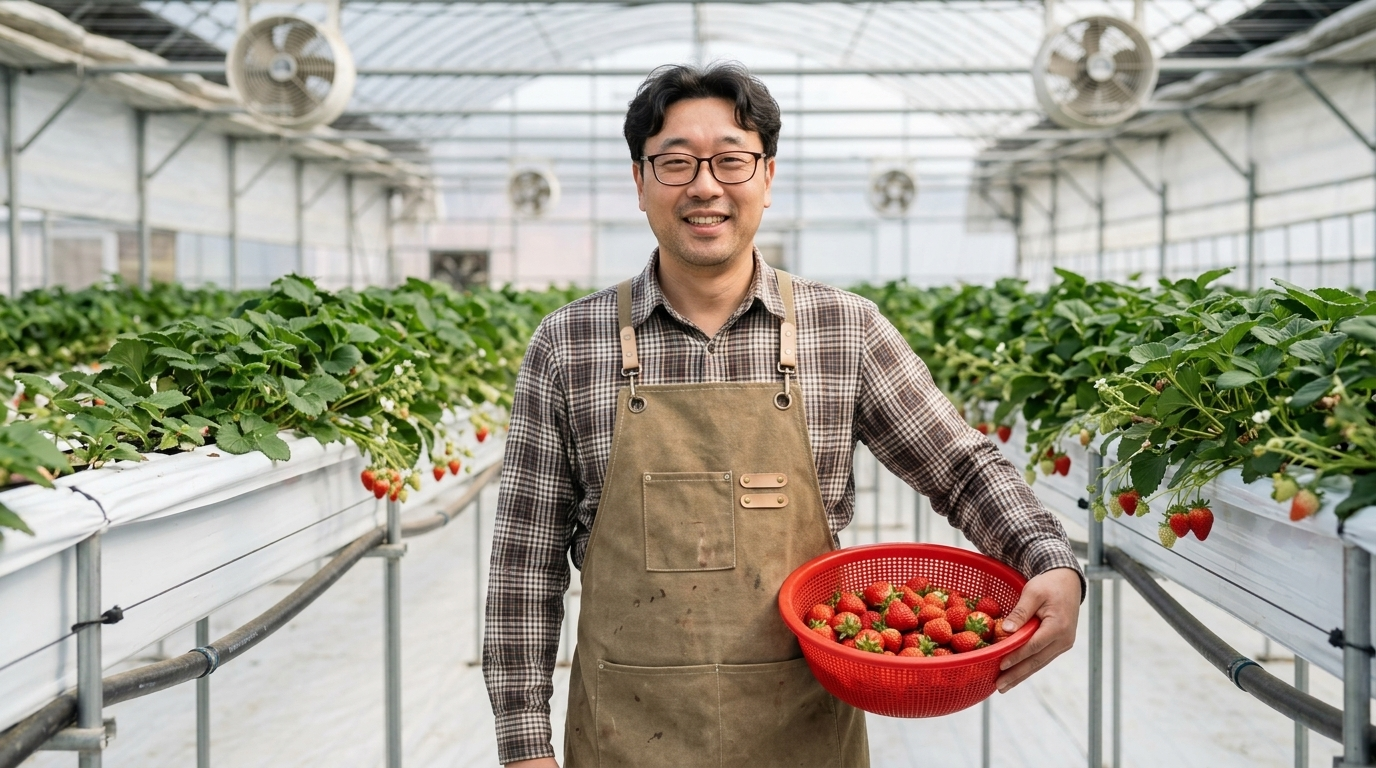
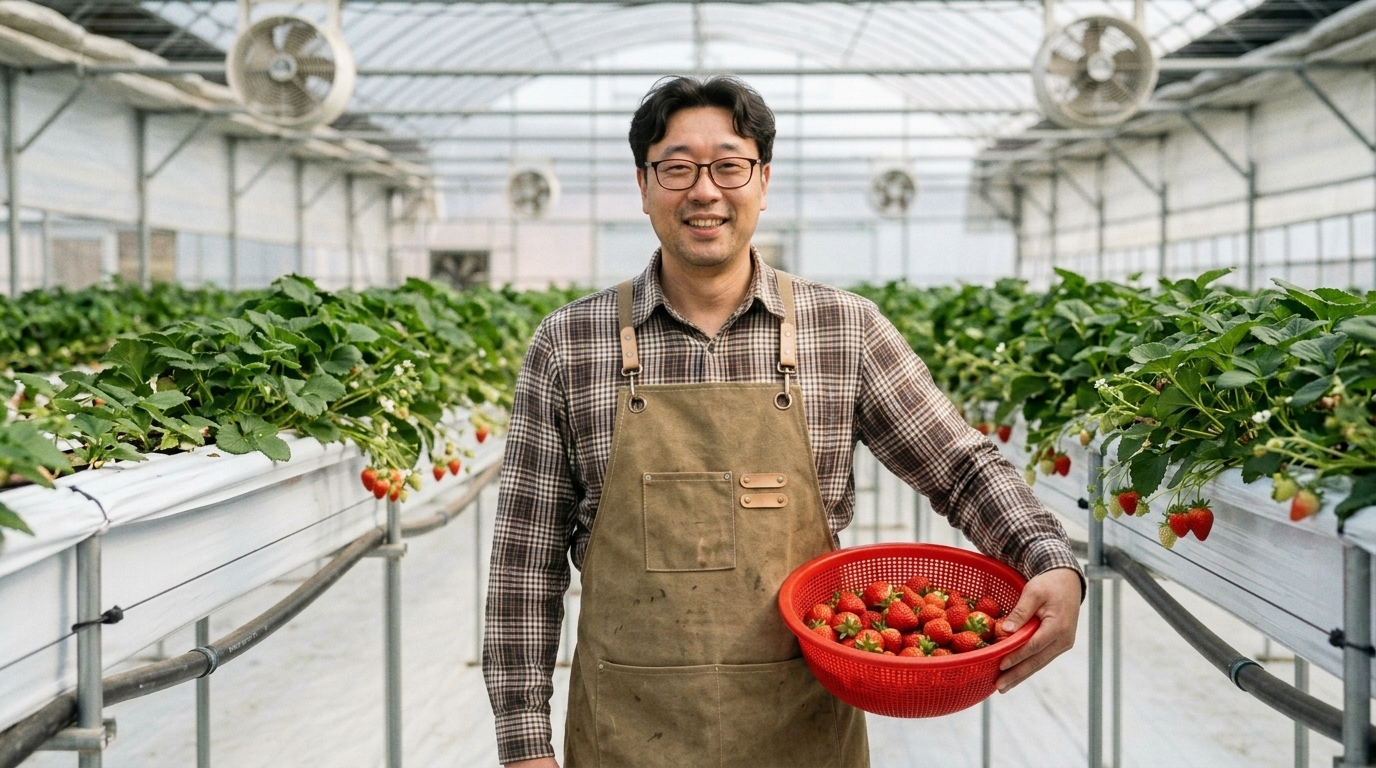
style(hero): reduce face size by 10%, apply matte photographic texture, and set object-position to center 15% to prevent face cutoff

diff --git a/index.html b/index.html
@@ -267,7 +267,7 @@
 
             <!-- Slide 3: 환하게 웃는 딸기 농부 (Farmer's Joy) -->
             <div class="hero-slide absolute inset-0 transition-opacity duration-700 ease-in-out opacity-0 pointer-events-none" data-index="3">
-                <img src="assets/images/story/04_farmer.jpg" alt="4단계: 환하게 웃는 대한민국 대표 딸기 농가 대표님" class="w-full h-full object-cover object-center">
+                <img src="assets/images/story/04_farmer.jpg" alt="4단계: 환하게 웃는 대한민국 대표 딸기 농가 대표님" class="w-full h-full object-cover object-[center_15%]">
                 <div class="absolute inset-0 bg-gradient-to-t from-stone-950/90 via-stone-950/30 to-stone-950/60 pointer-events-none"></div>
             </div>
         </div>
